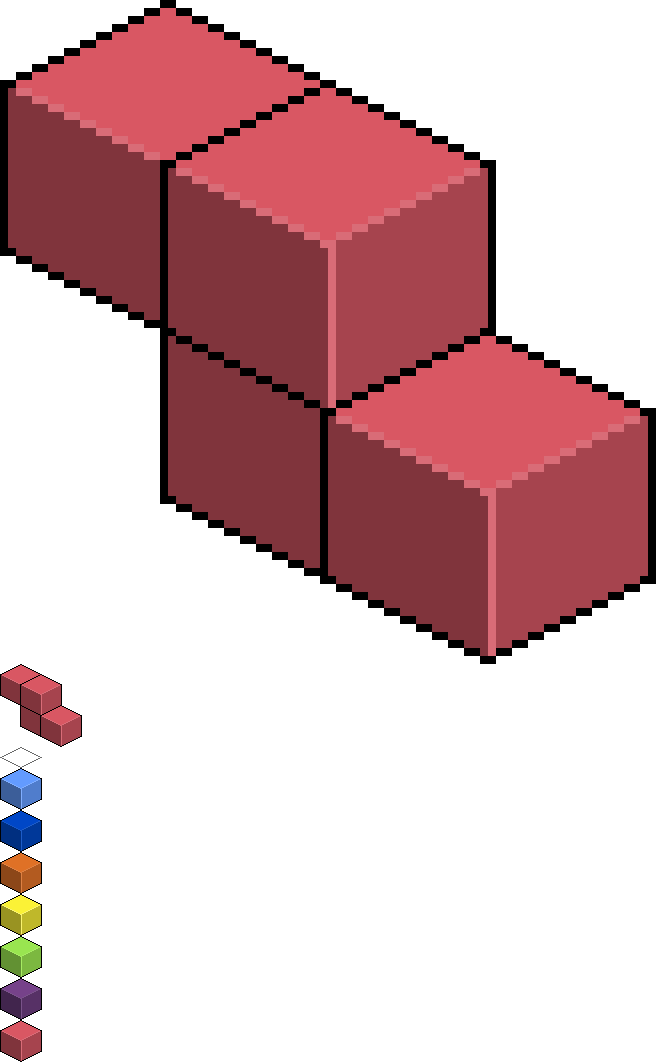
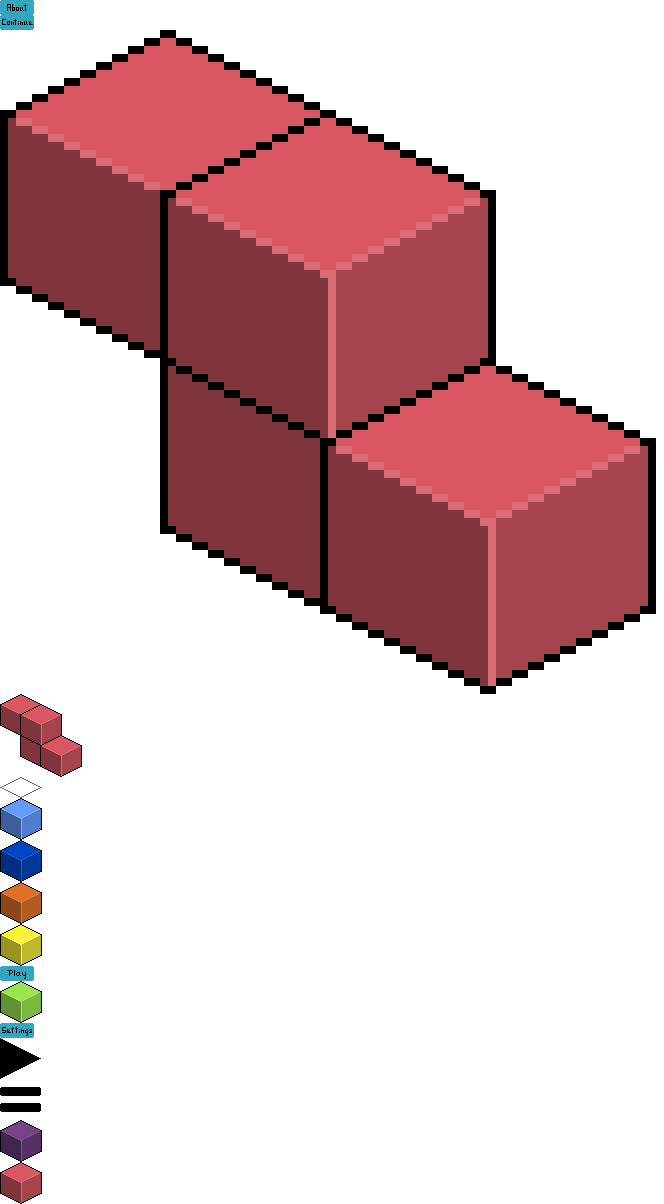
Basic menu

diff --git a/app/js/classes/world.js b/app/js/classes/world.js
@@ -44,8 +44,8 @@ class World {
   checkCollision(xx, yy) {
     var collision = false;
 
-    for (var x = 0; x < this.currentBrick.width; x++) {
-      for (var y = 0; y < this.currentBrick.height; y++) {
+    for (var x = 0; x < this.currentBrick.edge; x++) {
+      for (var y = 0; y < this.currentBrick.edge; y++) {
         if ((this.currentBrick.blocks[x][y] > 0) &&
           ((y + yy >= this.height) || (x + xx < 0) || (x + xx >= this.width) ||
             (this.array[x + xx][y + yy].type > 0))) {
@@ -57,8 +57,8 @@ class World {
   }
 
   joinBrick() {
-    for (var x = 0; x < this.currentBrick.width; x++) {
-      for (var y = 0; y < this.currentBrick.height; y++) {
+    for (var x = 0; x < this.currentBrick.edge; x++) {
+      for (var y = 0; y < this.currentBrick.edge; y++) {
         if (y + this.currentBrick.y < 20 && this.currentBrick.blocks[x][y] > 0) {
           this.array[x + this.currentBrick.x][y + this.currentBrick.y].type = this.currentBrick.blocks[x][y];
         }
@@ -98,6 +98,17 @@ class World {
     }
   }
 
+  calculatePointer() {
+    var tmpX = this.currentBrick.x;
+    var tmpY = this.currentBrick.y;
+
+    while (!this.checkCollision(tmpX, tmpY + 1)) {
+      tmpY += 1;
+    }
+
+    return tmpY;
+  }
+
   clearGame() {
     for (var x = 0; x < this.width; x++) {
       for (var y = 0; y < this.height; y++) {
@@ -117,13 +128,27 @@ class World {
         var visible = this.array[x][y].type !== 0;
         if (visible) {
           this.array[x][y].sprite.frameName = findByType(this.array[x][y].type, json).name;
+          this.array[x][y].sprite.alpha = 1;
         }
         this.array[x][y].sprite.visible = visible;
-        for (var bx = 0; bx < this.currentBrick.width; bx++) {
-          for (var by = 0; by < this.currentBrick.height; by++) {
+
+        var pointerY = this.calculatePointer();
+        for (var bx = 0; bx < this.currentBrick.edge; bx++) {
+          for (var by = 0; by < this.currentBrick.edge; by++) {
+            if (x === bx + this.currentBrick.x && y === by + pointerY && this.currentBrick.blocks[bx][by] !== 0) {
+              this.array[x][y].sprite.frameName = findByType(this.currentBrick.blocks[bx][by], json).name;
+              this.array[x][y].sprite.visible = true;
+              this.array[x][y].sprite.alpha = 0.6;
+            }
+          }
+        }
+
+        for (var bx = 0; bx < this.currentBrick.edge; bx++) {
+          for (var by = 0; by < this.currentBrick.edge; by++) {
             if (x === bx + this.currentBrick.x && y === by + this.currentBrick.y && this.currentBrick.blocks[bx][by] !== 0) {
               this.array[x][y].sprite.frameName = findByType(this.currentBrick.blocks[bx][by], json).name;
               this.array[x][y].sprite.visible = true;
+              this.array[x][y].sprite.alpha = 1;
             }
           }
         }

diff --git a/app/js/states/play.js b/app/js/states/play.js
@@ -70,7 +70,7 @@ play.prototype = {
       score: game.add.text((this.game.world.centerX + (blockWidth * this.world.width) / 2) + 30, this.game.world.centerY / 2, "Score: 0", textStyle),
       lines: game.add.text((this.game.world.centerX + (blockWidth * this.world.width) / 2) + 30, this.game.world.centerY / 2 + 50, "Lines: 0", textStyle),
       level: game.add.text((this.game.world.centerX + (blockWidth * this.world.width) / 2) + 30, this.game.world.centerY / 2 + 100, "Level: 1", textStyle),
-    }
+    };
 
     //Register keyboard keys
     this.upKey = game.input.keyboard.addKey(Phaser.Keyboard.UP);
@@ -89,7 +89,7 @@ play.prototype = {
       this.text.level.text = "Level: " + this.world.level;
       this.text.lines.text = "Lines: " + this.world.lines;
       this.text.score.text = "Score: " + this.world.score;
-    }
+    };
   },
   update: function() {
     if (this.upKey.isUp && this.downKey.isUp && this.leftKey.isUp && this.rightKey.isUp) {

diff --git a/app/js/classes/brick.js b/app/js/classes/brick.js
@@ -1,10 +1,11 @@
 class Brick {
-  constructor(blocks = Array(4).fill().map(() => Array(4).fill(0))) {
+
+  constructor(blocks = Array(4).fill().map(() => Array(4).fill(0)), edge = 4) {
     this.blocks = blocks;
     this.x = 0;
     this.y = 0;
-    this.width = 4;
-    this.height = 4;
+    this.edge = edge;
+    console.log(this.edge);
   }
 
   updatePosition() {
@@ -15,9 +16,9 @@ class Brick {
     //Clone array, because javascript references
     var cloned = JSON.parse(JSON.stringify(this.blocks));
     //Rotate array
-    for (var y = 0; y < this.width; y++) {
-      for (var x = 0; x < this.height; x++) {
-        this.blocks[x][y] = cloned[y][(this.width - 1) - x];
+    for (var y = 0; y < this.edge; y++) {
+      for (var x = 0; x < this.edge; x++) {
+        this.blocks[x][y] = cloned[y][(this.edge - 1) - x];
       }
     }
   }

diff --git a/app/js/states/preload.js b/app/js/states/preload.js
@@ -3,7 +3,7 @@ var preload = function(game) {};
 preload.prototype = {
   preload: function() {
     //Only set this to false, if you are developer
-    this.SPLASHSCREEN_LONG = false;
+    this.SPLASHSCREEN_LONG = true;
 
     //Show Geekwork 2016 splashScreen
     var splashScreen = this.add.sprite(this.game.world.centerX, 0, "geekwork-splash");
@@ -32,7 +32,7 @@ preload.prototype = {
   update: function() {
     if (this.time.now - this.startingTime >= 4000 || !this.SPLASHSCREEN_LONG) {
       //Start game
-      this.game.state.start("Play");
+      this.game.state.start("Menu");
     }
   }
 };

diff --git a/app/js/classes/brickGenerator.js b/app/js/classes/brickGenerator.js
@@ -14,15 +14,21 @@ class BrickGenerator {
       //Reset tmp array
       tmp_array = Array(4).fill().map(() => Array(4).fill(false));
     }
+
+    for (var i = 0; i < json.length; i++) {
+      this.edges.push(json[i][4].edge);
+    }
   }
 
   createBrick() {
-    return new Brick(this.patterns[Math.floor(Math.random() * 7)]);
+    var patternNumber = Math.floor(Math.random() * 7);
+    return new Brick(this.patterns[patternNumber], this.edges[patternNumber]);
   }
 
   constructor() {
     this.patterns = [];
-
+    this.edges = [];
     this.loadBricks();
+    console.log(this.edges);
   }
 }

diff --git a/app/html/index.html b/app/html/index.html
@@ -28,6 +28,7 @@
   <script src="js/states/boot.js"></script>
   <script src="js/states/preload.js"></script>
   <script src="js/states/play.js"></script>
+  <script src="js/states/menu.js"></script>
   <!-- Game init -->
   <script src="js/states/game.js"></script>
 </body>

diff --git a/app/js/states/game.js b/app/js/states/game.js
@@ -5,6 +5,7 @@ var game = new Phaser.Game(1920, 1080, Phaser.AUTO, "", null, false, false);
 game.state.add("Boot", boot);
 game.state.add("Preload", preload);
 game.state.add("Play", play);
+game.state.add("Menu", menu);
 
 //Start game
 game.state.start("Boot");
